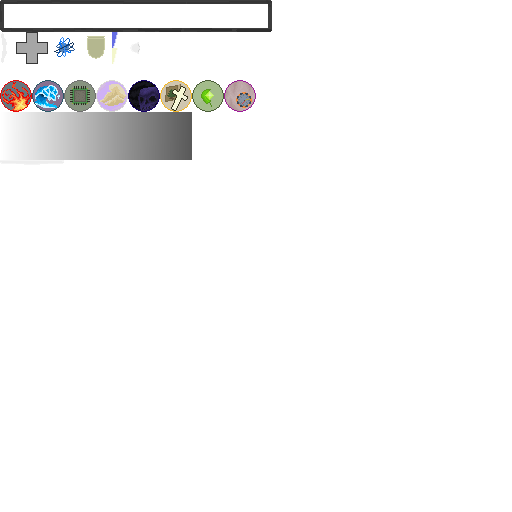
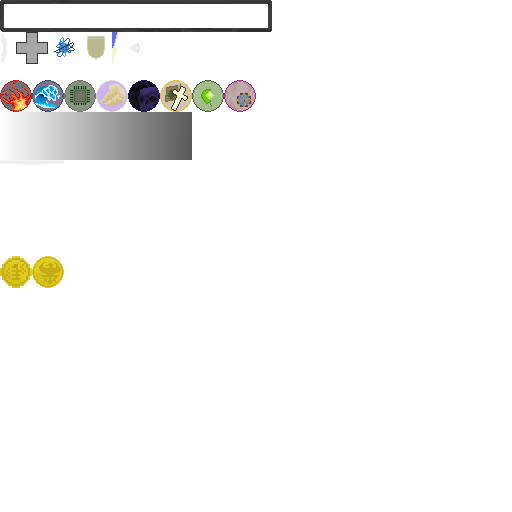
player rework v2

Changed region(s): [[0.0, 0.5, 0.125, 0.5625]]

diff --git a/scripts/player/PlayerController.cs b/scripts/player/PlayerController.cs
@@ -28,9 +28,11 @@ public partial class PlayerController : Unit
 
     [Export] private Camera2D _camera;
     [Export] public Node2D HandNode;
-    [Export] public AnimatedSprite2D AnimSprite;
+    [Export] public AnimatedSprite2D AnimSprite; //deprecased
+    [Export] public AnimationPlayer Animator;
     [Export] public CpuParticles2D ChangeParticles;
-    [Export] public Sprite2D Head;
+    [Export] public Sprite2D Head, Body;
+    [Export] public Marker2D LeftHand, RightHand;
     
     private bool _inBattle = false;
     
@@ -68,7 +70,6 @@ public partial class PlayerController : Unit
         HandleSelectionInputs();
         if (Input.IsActionPressed("lm"))
             HandleAttack();
-        if (!Weapon.CanShoot) Weapon.Scale = Vector2.One;
     }
 
     public override void _Process(double delta)
@@ -80,11 +81,19 @@ public partial class PlayerController : Unit
     private void HandleMovement(float dt)
     {
         Vector2 direction = Input.GetVector("a", "d", "w", "s");
-        AnimSprite.Play((direction.Length() < 0.1f) ? "idle":"move");
-        AnimSprite.FlipH = direction.X < 0;
-        Weapon.Scale = new Vector2(AnimSprite.FlipH ? -1 : 1, 1);
+        Animator.Play((direction.Length() < 0.1f) ? "RESET":"move");
+        if (direction.X < 0f) {
+            Body.Scale = new Vector2(-1, 1);
+            Head.Scale = new Vector2(-1, 1);
+        }else {
+            Body.Scale = Vector2.One;
+            Head.Scale = Vector2.One;
+        }
         Velocity = direction * Speed;
         MoveAndSlide();
+        
+        //AnimSprite.Play((direction.Length() < 0.1f) ? "idle":"move");
+        //AnimSprite.FlipH = direction.X < 0;
     }
 
     private void HandleSelectionInputs()
@@ -128,9 +137,8 @@ public partial class PlayerController : Unit
         EmitSignal(Unit.SignalName.HealthChanged, Hp, Stats?.BaseHp ?? 100f);
 
         if (Hp <= 0)
-        {
             ExecuteDie();
-        }
+        
     }
 
     public void Heal(float amount)
@@ -142,7 +150,7 @@ public partial class PlayerController : Unit
 
     public override void ExecuteDie()
     {
-        Hp = 125;
+        Heal(125);
     }
 
     public void AddWeapon(WeaponResource weapon)

diff --git a/scripts/units/ai/Ai.cs b/scripts/units/ai/Ai.cs
@@ -100,27 +100,32 @@ public partial class Ai : Node2D
 	{
 		float dt = (float)delta;
 		_actionTime += dt;
-		if (_actionTime >= BetweenActionTime) {
-			if (UnitAction is ActionType.Idle or ActionType.Move)
-				UnitAction = UnitAction == ActionType.Idle ? ActionType.Move : ActionType.Idle;
-			switch (Behavior) {
-				case UnitBehavior.Patrol:
-					if (_patrolPoints.Length <= 0) break;
-					_patrolPointIndex = (_patrolPointIndex + 1) % _patrolPoints.Length;
-					_movePos = _patrolPoints[_patrolPointIndex];
-					 break;
-				case UnitBehavior.Animal: case UnitBehavior.Passive:
-					_movePos = _unit.GlobalPosition + 50 * Vector2.FromAngle(GD.Randf() * Mathf.Tau);
-					break;
-			}
-			
-			_actionTime = 0f;
-		}
+		if (_actionTime >= BetweenActionTime) 
+			Think();
+		
 		if (_player != null && _unit.Weapon?.Resource != null && UnitAction == ActionType.Attack) 
 			_unit.Weapon.ExecuteShoot((_player.GlobalPosition - _unit.GlobalPosition).Angle(), _unit);
 		
 		MoveBehavior();
 		_unit.MoveAndSlide();
+	}
+
+	void Think()
+	{
+		if (GD.Randf() > 0.5f && UnitAction is ActionType.Idle or ActionType.Move)
+			UnitAction = UnitAction == ActionType.Idle ? ActionType.Move : ActionType.Idle;
+		switch (Behavior) {
+			case UnitBehavior.Patrol:
+				if (_patrolPoints.Length <= 0) break;
+				_patrolPointIndex = (_patrolPointIndex + 1) % _patrolPoints.Length;
+				_movePos = _patrolPoints[_patrolPointIndex];
+				break;
+			case UnitBehavior.Animal: case UnitBehavior.Passive:
+				_movePos = _unit.GlobalPosition + 50 * Vector2.FromAngle(GD.Randf() * Mathf.Tau);
+				break;
+		}
+			
+		_actionTime = 0f;
 	}
 
 	void MoveBehavior()

diff --git a/scripts/weapon/Weapon.cs b/scripts/weapon/Weapon.cs
@@ -73,9 +73,11 @@ public partial class Weapon : Node2D
         _isShooted = true;
         _betweenShoot.Start();
         Animator.Play("onAttack");
+        
+        if (GlobalScale.Y < 0) GlobalScale = new Vector2(GlobalScale.X, -GlobalScale.Y);
+        //var ngl = (GlobalScale.Y < 0) ? Mathf.Pi+angle : angle;
 
         Rotation = angle;
-        TweenAnimation();
 
         await SpawnBullet(angle, unit);
 
@@ -99,27 +101,9 @@ public partial class Weapon : Node2D
             bullet += Resource.Bullet;
             bullet.GlobalScale = Vector2.One * Resource.BulletScale;
 
-            if (Type == WeaponType.Melee) unit.AddChild(bullet);
+            if (Type == WeaponType.Melee) GetParent().AddChild(bullet);
             else Game.Instance.SpawnNode(bullet);
         }
-    }
-
-    void TweenAnimation()
-    {
-        _punchTween?.Kill();
-        _punchTween = CreateTween();
-        
-        Vector2 punchTarget = _defaultPosition + new Vector2(Resource.OffsetSpawn / 2f, 0);
-        
-        _punchTween.TweenProperty(this, "position", punchTarget, 0.1f)
-            .SetTrans(Tween.TransitionType.Sine)
-            .SetEase(Tween.EaseType.Out);
-            
-        float returnTime = Mathf.Max(0.1f, Resource.AttackSpeed - 0.1f);
-        _punchTween.TweenProperty(this, "position", _defaultPosition, returnTime)
-            .SetTrans(Tween.TransitionType.Sine)
-            .SetEase(Tween.EaseType.InOut);
-        _punchTween.TweenProperty(this, "rotation", 0, 0.01f);
     }
 
     void AttackEnded(StringName name)

diff --git a/scripts/player/PlayerStatSaver.cs b/scripts/player/PlayerStatSaver.cs
@@ -1,0 +1,15 @@
+using Godot;
+using System;
+
+public partial class PlayerStatSaver : Node
+{
+	// Called when the node enters the scene tree for the first time.
+	public override void _Ready()
+	{
+	}
+
+	// Called every frame. 'delta' is the elapsed time since the previous frame.
+	public override void _Process(double delta)
+	{
+	}
+}
